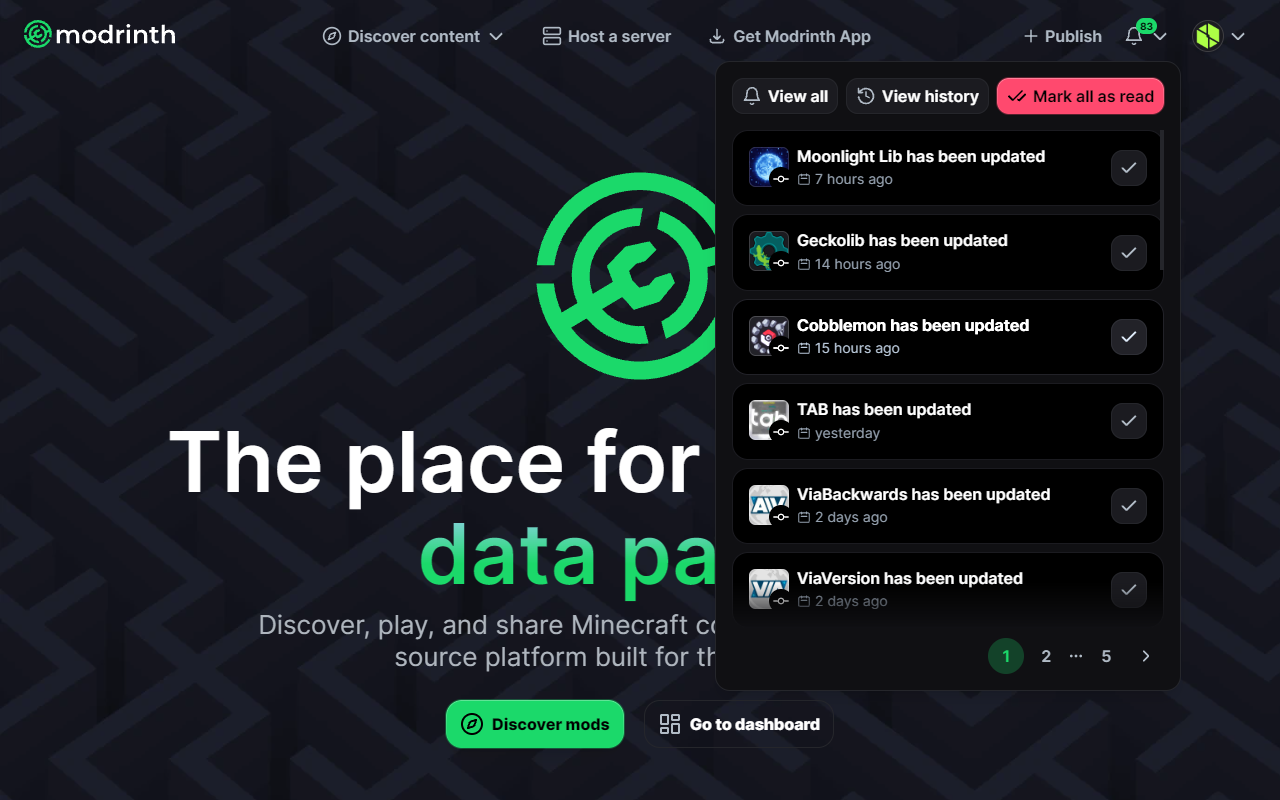
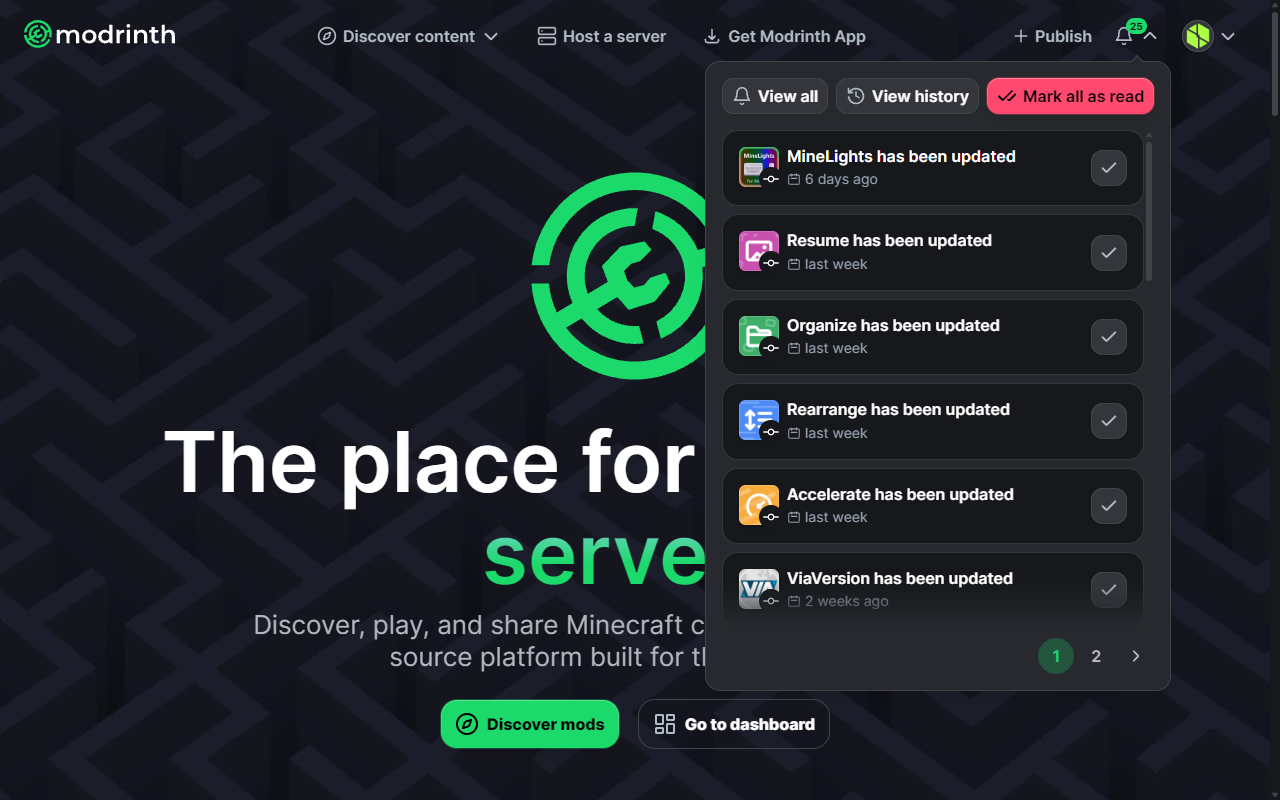
chore: screenshots

diff --git a/website/src/showcase.ts b/website/src/showcase.ts
@@ -1,12 +1,12 @@
 // Feature highlights for the website, README and store descriptions
 // Images live in website/public/screenshots, emojis prefix the titles in store descriptions
 export const showcase = [
-	{ key: 'galleryBackground', image: 'gallery-background.png', emoji: '🖼' },
+	{ key: 'galleryBackground', image: 'project.png', emoji: '🖼' },
 	{ key: 'themes', image: 'themes.png', emoji: '🎨' },
 	{ key: 'quickActions', image: 'quick-actions.png', emoji: '⚡' },
 	{ key: 'dependencyExplorer', image: 'dependency-explorer.png', emoji: '🌳' },
-	{ key: 'popupTabs', image: 'popup.png', emoji: '🧩' },
-	{ key: 'quickSearch', image: 'quicksearch.png', emoji: '🔍' },
-	{ key: 'projectPage', image: 'project-page.png', emoji: '📊' },
+	{ key: 'popupTabs', image: 'popup-creator.png', emoji: '🧩' },
+	{ key: 'quickSearch', image: 'quick-search.png', emoji: '🔍' },
 	{ key: 'collectionDownload', image: 'collection-download.png', emoji: '📦' },
+	{ key: 'notifications', image: 'notifications.png', emoji: '🔔' },
 ]

diff --git a/README.md b/README.md
@@ -28,7 +28,7 @@ Prefer to build from source? See [🔒 Building from source](#-building-from-sou
 <!-- features:start -->
 <table>
 <tr>
-<td width="50%"><img src="website/public/screenshots/gallery-background.png"></td>
+<td width="50%"><img src="website/public/screenshots/project.png"></td>
 <td width="50%"><h3>A page that matches the project</h3>Display a project's featured gallery image as a full banner background, so shaders and resource packs look the part.</td>
 </tr>
 <tr>
@@ -44,20 +44,20 @@ Prefer to build from source? See [🔒 Building from source](#-building-from-sou
 <td width="50%"><img src="website/public/screenshots/dependency-explorer.png"></td>
 </tr>
 <tr>
-<td width="50%"><img src="website/public/screenshots/popup.png"></td>
+<td width="50%"><img src="website/public/screenshots/popup-creator.png"></td>
 <td width="50%"><h3>Modrinth, from any tab</h3>Search for projects and servers, read your notifications, accept invites, and check your creator revenue and stats, all from the extension popup.</td>
 </tr>
 <tr>
 <td width="50%"><h3>Find anything in seconds</h3>Press Ctrl+K or / to open a command palette style search, with faceted tags for loaders, versions, categories, and types built right into your query.</td>
-<td width="50%"><img src="website/public/screenshots/quicksearch.png"></td>
+<td width="50%"><img src="website/public/screenshots/quick-search.png"></td>
 </tr>
 <tr>
-<td width="50%"><img src="website/public/screenshots/project-page.png"></td>
-<td width="50%"><h3>The full picture on every project</h3>See how often a project updates at a glance, along with its repository stats, Discord server, security checks, the modpacks it's in, and where else it's published.</td>
-</tr>
-<tr>
-<td width="50%"><h3>A whole collection in one download</h3>Turn any collection into a modpack or zip file with every project that supports your game version and loader, required dependencies included.</td>
 <td width="50%"><img src="website/public/screenshots/collection-download.png"></td>
+<td width="50%"><h3>A whole collection in one download</h3>Turn any collection into a modpack or zip file with every project that supports your game version and loader, required dependencies included.</td>
+</tr>
+<tr>
+<td width="50%"><h3>Notifications, right in the header</h3>View, manage, and clear unread notifications without leaving the page you're on, with optional browser notifications and an unread badge on the extension icon.</td>
+<td width="50%"><img src="website/public/screenshots/notifications.png"></td>
 </tr>
 </table>
 <!-- features:end -->
